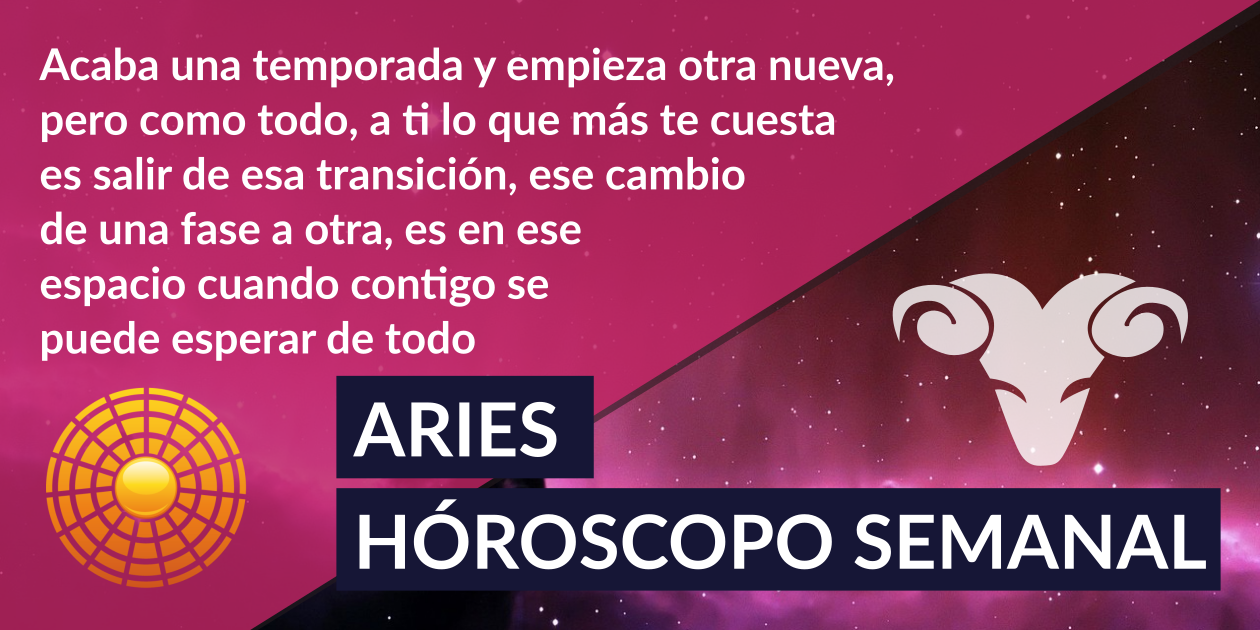
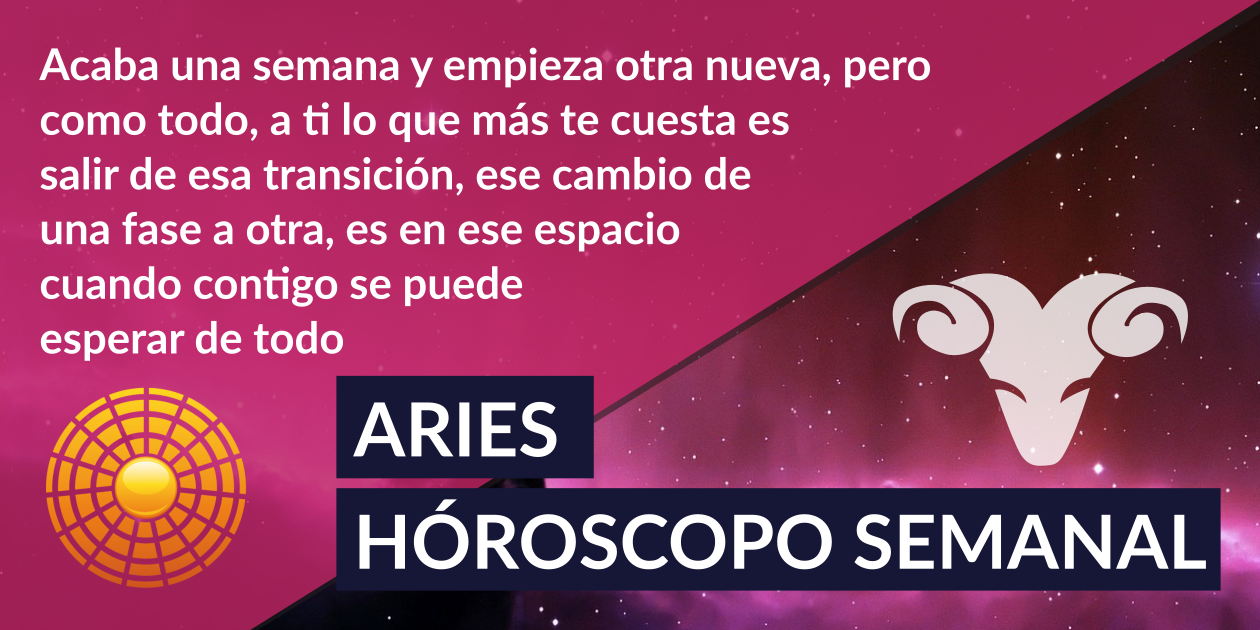
cfg

diff --git a/semanal/geminis.md b/semanal/geminis.md
@@ -1,26 +1,26 @@
 ---
 layout: horoscopos
-title: geminis 24 de noviembre 2025 al 30 de noviembre 2025 
-description: Horóscopo semanal geminis 24 de noviembre 2025 al 30 de noviembre 2025. Tienes que plantarte Géminis, plantarte en el lugar donde eres más feliz. A veces, por miedo siempre andas buscando otras cosas, siempre quieres probar y probar y no quedarte con nada pero ahora es el momento en el que debes tomar decisiones y al menos disfrutar de las sensaciones que la vida te da sin tener que salir corriendo. Se llama estabilidad.
+title: geminis 01 de diciembre 2025 al 07 de diciembre 2025 
+description: Horóscopo semanal geminis 01 de diciembre 2025 al 07 de diciembre 2025. Tienes que plantarte Géminis, plantarte en el lugar donde eres más feliz. A veces, por miedo siempre andas buscando otras cosas, siempre quieres probar y probar y no quedarte con nada pero ahora es el momento en el que debes tomar decisiones y al menos disfrutar de las sensaciones que la vida te da sin tener que salir corriendo. Se llama estabilidad.
 permalink: /horoscopo-semanal-gratis/geminis/
 home: FALSE
 keywords: horóscopo semanal, horóscopo de la semana, horóscopo, horóscopo gratis,horóscopos, horóscopo esperanza gracia, horoscopos geminis la semana, horóscopos gratis, Tarot, Astrologia, Zodíaco, geminis, horoscopo gratis, semanal
 horoscopo:
  signo: geminis
  video: -DQpmrrAIeU
-ogimg: /images/zodiac/semanal_geminis.png#2025-11-24
+ogimg: /images/zodiac/semanal_geminis.png#2025-12-01
 sitemap:
  priority: 1
  changefreq: 'weekly'
- lastmod: '2025-11-24'
+ lastmod: '2025-12-01'
 ---
 
 
 
 ## Tienes que plantarte Géminis, plantarte en el lugar donde eres más feliz. A veces, por miedo siempre andas buscando otras cosas, siempre quieres probar y probar y no quedarte con nada pero ahora es el momento en el que debes tomar decisiones y al menos disfrutar de las sensaciones que la vida te da sin tener que salir corriendo. Se llama estabilidad.
 
-Te revienta no poder ignorar, en serio te revienta porque sabes de sobra que es lo que ahora deberías hacer, pasar de todo de verdad, desaparecer por un tiempo. Quieres perder el interés de algunas cosas pero no puedes. Sabes de sobra lo que está bien y lo que está mal, lo que deberías dejar a un lado ya pero a la hora de la verdad, sientes como si algo te atrapara, como si no pudieras decir “hasta aquí” definitivamente, como si no puderas alejarte del todo de verdad. Pero en vez de marcharte, te quedas, y te quedas de mala hostia, y te enzarzas en pensamientos negros, en peleas tontas y en discusiones que no merecen la pena. Tu te quieres mucho, y sabes lo que vales, pero a la vez te dejas llevar, esa pasión incontrolada es la causante de tus alegrías más grandes y de tus dolores de cabeza más intensos. Y no puedes parar. Y te sientes encerrado en un círculo, un círculo del que cuando empiezas a salir te jala para adentro otra vez… Está bien echarle picante a la vida Géminis, en serio, está bien que haya un poquito de locura, pero no te pases porque al final vas a acabar por pagar un precio alto por esto. Ahora puedes con todo Géminis, recuperarte te lleva un par de días o tres pero, ¿es lo que quieres para tu futuro? No mantengas demasiado lo que debería estar muy lejos de ti.
-Con el Sol en Sagitario, tu signo opuesto, durante los siguientes días podrías ponerle tu sello personal a tus relaciones. Tu atención parece estar fuertemente invertida en un socio. La Luna Nueva de la semana pasada (del 20 de noviembre) te incitó a considerar un nuevo trabajo o rutina. Tu regente, Mercurio, se pone directo el martes 25, aclarando la comunicación. Por ahora, es mejor no apurar las cosas. Adopta un método práctico y sensato.
+Te revienta no poder ignorar, en serio te revienta porque sabes de sobra que es lo que ahora deberías hacer, pasar de todo de verdad, desaparecer por un tiempo. Quieres perder el interés de algunas cosas pero no puedes. Sabes de sobra lo que está bien y lo que está mal, lo que deberías dejar a un lado ya pero a la hora de la verdad, sientes como si algo te atrapara, como si no pudieras decir “hasta aquí” definitivamente, como si no pudieras alejarte del todo de verdad. Pero en vez de marcharte, te quedas, y te quedas de mala hostia, y te enzarzas en pensamientos negros, en peleas tontas y en discusiones que no merecen la pena. Tu te quieres mucho, y sabes lo que vales, pero a la vez te dejas llevar, esa pasión incontrolada es la causante de tus alegrías más grandes y de tus dolores de cabeza más intensos. Y no puedes parar. Y te sientes encerrado en un círculo, un círculo del que cuando empiezas a salir te jala para adentro otra vez… Está bien echarle picante a la vida Géminis, en serio, está bien que haya un poquito de locura, pero no te pases porque al final vas a acabar por pagar un precio alto por esto. Ahora puedes con todo Géminis, recuperarte te lleva un par de días o tres pero, ¿es lo que quieres para tu futuro? No mantengas demasiado lo que debería estar muy lejos de ti.
+Tu voluntad de aprender te coloca en una buena posición en este momento, no sólo porque te ofrece la oportunidad de actualizar tu conjunto de habilidades, sino también porque amplía tu comprensión de lo que es posible. La oportunidad de lanzarte a una aventura este fin de semana podría ser demasiado buena para dejarla pasar.
 
 ## Dinero
 

diff --git a/semanal/capricornio.md b/semanal/capricornio.md
@@ -1,18 +1,18 @@
 ---
 layout: horoscopos
-title: capricornio 24 de noviembre 2025 al 30 de noviembre 2025 
-description: Horóscopo semanal capricornio 24 de noviembre 2025 al 30 de noviembre 2025. Habrá momentos en los que el mundo parezca que se te cae a pedazos, pero todo eso que tienes ahora pendiente, todo ese dolor, todas esas cosas que te persiguen darán un giro de 180 grados.
+title: capricornio 01 de diciembre 2025 al 07 de diciembre 2025 
+description: Horóscopo semanal capricornio 01 de diciembre 2025 al 07 de diciembre 2025. Habrá momentos en los que el mundo parezca que se te cae a pedazos, pero todo eso que tienes ahora pendiente, todo ese dolor, todas esas cosas que te persiguen darán un giro de 180 grados.
 permalink: /horoscopo-semanal-gratis/capricornio/
 home: FALSE
 keywords: horóscopo semanal, horóscopo de la semana, horóscopo, horóscopo gratis,horóscopos, horóscopo esperanza gracia, horoscopos capricornio la semana, horóscopos gratis, Tarot, Astrologia, Zodíaco, capricornio, horoscopo gratis, semanal
 horoscopo:
  signo: capricornio
  video: -DQpmrrAIeU
-ogimg: /images/zodiac/semanal_capricornio.png#2025-11-24
+ogimg: /images/zodiac/semanal_capricornio.png#2025-12-01
 sitemap:
  priority: 1
  changefreq: 'weekly'
- lastmod: '2025-11-24'
+ lastmod: '2025-12-01'
 ---
 
 
@@ -20,7 +20,7 @@ sitemap:
 ## Habrá momentos en los que el mundo parezca que se te cae a pedazos, pero todo eso que tienes ahora pendiente, todo ese dolor, todas esas cosas que te persiguen darán un giro de 180 grados.
 
 El mundo no te entiende Capricornio, ya estás acostumbrado a eso, pero no te frustres, en serio no te frustres. Ha llegado un momento en el que ya no quieres las cosas a medias, o te lo dan todo o mejor que no te den nada. Estás harto de hacerte ilusiones que después no se cumplen, estás harto de depender siempre de la felicidad de los demás, de sus decisiones… Y te has dado cuenta de que vales mucho, de que si el resto no es capaz de valorar lo que podrías llegar a dar no es problema tuyo. Ahora sí sabes lo que vales Capricornio, ahora sí sabes lo que mereces. A pesar de que ahora sea todo o nada ni siquiera necesitas eso del resto, ¡qué va! Porque las cosas están cambiando, ahora eres tú quien necesita tiempo, quien necesita libertad para poder entender qué es lo que necesitas, qué es lo que quieres, qué es lo que de verdad te hará feliz. Quieres “sobrevivir” en el mundo sin necesidad de nadie, sin necesidad de nada que te ate y te corte las alas, sin broncas, sin malos rollos, sin dramas ni peleas. Cuando te metes en bucles así no avanzas y si no avanzas te estancas, y si te estancas dejas de ser feliz. Ya has estado en el fondo mucho tiempo Capricornio, ahora que has salido no vuelvas a caer. No eres de hierro no, pero procura serlo esta semana, aunque sea complicado. Descúbrete a ti mismo y descubre tu misión en la vida, y hazlo solo, y en vez de darle vueltas a lo malo, quédate con los buenos momentos, con lo que de verdad no falla.
-Es posible que motives a otras personas para que se unan a tu búsqueda de un nuevo sueño. La Luna Nueva de la semana pasada (del 20 de noviembre) activó tu sector social. De hecho, hacer estas actividades sin compañía no es tan divertido. El Sol y Venus en Sagitario esta semana te dan ganas de descansar y ponerte en espíritu introspectivo. Prepárate para recibir muchas invitaciones, pero también para necesitar tiempo a solas. También prepárate para recibir una oferta inesperada.
+Es posible que motives a otras personas para que se unan a tu búsqueda de paz interior o un retiro espiritual. De hecho, hacer estas actividades sin compañía no es tan divertido como hacerlas con amigos o tu pareja. El Sol en Sagitario activa tu sector de descanso y cierre, dándote ganas de ponerte en espíritu reflexivo.
 
 ## Dinero
 

diff --git a/semanal/cancer.md b/semanal/cancer.md
@@ -1,18 +1,18 @@
 ---
 layout: horoscopos
-title: cancer 24 de noviembre 2025 al 30 de noviembre 2025 
-description: Horóscopo semanal cancer 24 de noviembre 2025 al 30 de noviembre 2025. Tómate tu tiempo y cuando decidas dar un paso, hazlo con seguridad plena, como casi siempre lo has hecho. Y tranquilo, que todo llega a su tiempo…
+title: cancer 01 de diciembre 2025 al 07 de diciembre 2025 
+description: Horóscopo semanal cancer 01 de diciembre 2025 al 07 de diciembre 2025. Tómate tu tiempo y cuando decidas dar un paso, hazlo con seguridad plena, como casi siempre lo has hecho. Y tranquilo, que todo llega a su tiempo…
 permalink: /horoscopo-semanal-gratis/cancer/
 home: FALSE
 keywords: horóscopo semanal, horóscopo de la semana, horóscopo, horóscopo gratis,horóscopos, horóscopo esperanza gracia, horoscopos cancer la semana, horóscopos gratis, Tarot, Astrologia, Zodíaco, cancer, horoscopo gratis, semanal
 horoscopo:
  signo: cancer
  video: -DQpmrrAIeU
-ogimg: /images/zodiac/semanal_cancer.png#2025-11-24
+ogimg: /images/zodiac/semanal_cancer.png#2025-12-01
 sitemap:
  priority: 1
  changefreq: 'weekly'
- lastmod: '2025-11-24'
+ lastmod: '2025-12-01'
 ---
 
 
@@ -20,7 +20,7 @@ sitemap:
 ## Tómate tu tiempo y cuando decidas dar un paso, hazlo con seguridad plena, como casi siempre lo has hecho. Y tranquilo, que todo llega a su tiempo…
 
 La zona de confort es un sitio bonito Cáncer, un lugar cómodo en el que probablemente nada ni nadie pueda molestarte, pero recuerda que nada crece ahí, así que, si quieres conseguir algo que realmente merezca la pena empieza a moverte y a buscarlo. El primer paso para todo siempre es duro pero piensa que es sólo eso, un paso, que después todo fluye. Esta semana tienes que dar más de un paso para empezar a ver luz en la oscuridad, para darte cuenta de una vez que el lugar en el que estás clavado te atrapará mucho más. Llega una buena noticia, algo que te hará removerte del todo, algo que esperabas… Y llega porque en realidad tendrás una buena actitud para que las cosas que merecen la pena aparezcan. No desaproveches las oportunidades más Cáncer, ni tampoco tengas miedo de defender o de explicar tus decisiones a nadie, es tu vida Cáncer. No le debes ninguna explicación a nadie. Así que, cuando empieces a caminar hacia lo que de verdad te interesa y te gusta, no mires atrás porque recuerda que no debes nada a nadie, si no más bien al revés. Y ten claro que debes rodearte de personas que saquen la magia de ti, y no la locura. No te metas en juegos de niños pequeños, no te dejes llevar por las emociones ahora, que las sensaciones de otros no se cuelen en tu vida. Va a empezar a caminar hacia buen puerto Cáncer, y tú mismo te lo notas, no la cagues por nada ni por nadie.
-Tu enfoque hacia las actividades de ocio y hacia tu vida social podría atravesar un cambio esta semana. La Luna Nueva de la semana pasada (20 de noviembre) te dio un impulso creativo. Ahora, el Sol en Sagitario activa tu sector de trabajo y rutinas, por lo que puede que te convenga usar el conocimiento y las habilidades que adquiriste recientemente para poner tus planes en marcha. En las próximas semanas, podrías volverte una persona más competitiva y determinada de lo que has sido, y esto puede contribuir a un mayor éxito.
+Tu enfoque hacia las actividades de ocio y hacia tu vida social podría atravesar un cambio esta semana, y puede ser uno que se ha estado elaborando por un tiempo. Tal vez estás buscando moverte en nuevos círculos, hacer nuevas amistades o involucrarte en actividades que puedan aprovechar tu potencial creativo. Pero para hacer esto quizás necesitas liberarte de situaciones que ya no te sirven. No te sientas culpable, ya que el cosmos te alienta a decirle adiós a un capítulo de tu vida para darle la bienvenida a otro.
 
 ## Dinero
 

diff --git a/semanal/acuario.md b/semanal/acuario.md
@@ -1,18 +1,18 @@
 ---
 layout: horoscopos
-title: acuario 24 de noviembre 2025 al 30 de noviembre 2025 
-description: Horóscopo semanal acuario 24 de noviembre 2025 al 30 de noviembre 2025. Esta semana no te reniegues Acuario, no hables más de lo que debes, no te irrites ni pierdas los papeles por nada ni por nadie. Intenta no decir nada negativo (aunque cueste) durante 24 horas y observa cómo tu vida cambia. 
+title: acuario 01 de diciembre 2025 al 07 de diciembre 2025 
+description: Horóscopo semanal acuario 01 de diciembre 2025 al 07 de diciembre 2025. Esta semana no te reniegues Acuario, no hables más de lo que debes, no te irrites ni pierdas los papeles por nada ni por nadie. Intenta no decir nada negativo (aunque cueste) durante 24 horas y observa cómo tu vida cambia. 
 permalink: /horoscopo-semanal-gratis/acuario/
 home: FALSE
 keywords: horóscopo semanal, horóscopo de la semana, horóscopo, horóscopo gratis,horóscopos, horóscopo esperanza gracia, horoscopos acuario la semana, horóscopos gratis, Tarot, Astrologia, Zodíaco, acuario, horoscopo gratis, semanal
 horoscopo:
  signo: acuario
  video: -DQpmrrAIeU
-ogimg: /images/zodiac/semanal_acuario.png#2025-11-24
+ogimg: /images/zodiac/semanal_acuario.png#2025-12-01
 sitemap:
  priority: 1
  changefreq: 'weekly'
- lastmod: '2025-11-24'
+ lastmod: '2025-12-01'
 ---
 
 
@@ -20,7 +20,7 @@ sitemap:
 ## Esta semana no te reniegues Acuario, no hables más de lo que debes, no te irrites ni pierdas los papeles por nada ni por nadie. Intenta no decir nada negativo (aunque cueste) durante 24 horas y observa cómo tu vida cambia. 
 
 Despacito Acuario, ahora todo despacito. A veces, hacer las cosas de forma lenta es lo que tu corazón necesita, y tu cabeza. Necesitas un descanso, necesitas a personas cerca que no pongan tu mundo al revés otra vez. La suerte para tener éxito en la vida se llama “creer en ti”. Te has dado cuenta de que, por mucho que haya personas que han intentado joderte y hundir tu ego y tu forma de ser hasta lo más profundo, existen otras muchas que están ahí por y para ti, que se desviven, y que son las que realmente merecen la pena. Quizás no has pasado tu mejor etapa este tiempo atrás pero ahora lo tienes claro, vales lo que vales, incluso un poco más, y la fé que tendrás en ti mismo/a de ahora en adelante no va a arrebatártela nadie. Primero va tu felicidad. De hecho necesitas que ahora sea lo primordial. Quítate los pesos que cargas a tu espalda, y renace… No hay que tener miedo de empezar otra vez, de hecho, es una nueva oportunidad para reconstruir lo que siempre quisiste… Esta semana puede ser el momento para desprenderte de algo a lo que estabas muy apegado, quizás ahora tengas esa fuerza para hacerlo Acuario.
-Por mucho que deseas que todo sea perfecto, puede que tal no sea el caso en los próximos días. Sueña todo lo que quieras, pero es posible que tengas que hacerles frente a demandas que requieran de una respuesta. Es posible que te estés presionando demasiado cuando no es realmente necesario. En lugar de tratar de encargarte de todo, considera la posibilidad de delegar algunas tareas. La Luna Nueva de la semana pasada (del 20 de noviembre) te anima a ser audaz y a ampliar tus horizontes profesionales, y esta semana con el Sol en Sagitario, tu sector social se activa.
+Por mucho que deseas que todo sea perfecto, puede que tal no sea el caso en los próximos días. Sueña todo lo que quieras, pero es posible que tengas que hacerles frente a demandas sociales que requieran de una respuesta. Es posible que te estés presionando demasiado cuando no es realmente necesario. En lugar de tratar de encargarte de todo, considera la posibilidad de delegar algunas tareas para que tu semana sea más manejable. El Sol en Sagitario te anima a ser audaz y a ampliar tus horizontes sociales.
 
 ## Dinero
 

diff --git a/semanal/leo.md b/semanal/leo.md
@@ -1,18 +1,18 @@
 ---
 layout: horoscopos
-title: leo 24 de noviembre 2025 al 30 de noviembre 2025 
-description: Horóscopo semanal leo 24 de noviembre 2025 al 30 de noviembre 2025. No eres estúpido por ser humano, por tener sentimientos, por intentar arreglar las cosas, por querer empezar de cero y bien pero no puedes controlar tus emociones, lo que hay es lo que hay…
+title: leo 01 de diciembre 2025 al 07 de diciembre 2025 
+description: Horóscopo semanal leo 01 de diciembre 2025 al 07 de diciembre 2025. No eres estúpido por ser humano, por tener sentimientos, por intentar arreglar las cosas, por querer empezar de cero y bien pero no puedes controlar tus emociones, lo que hay es lo que hay…
 permalink: /horoscopo-semanal-gratis/leo/
 home: FALSE
 keywords: horóscopo semanal, horóscopo de la semana, horóscopo, horóscopo gratis,horóscopos, horóscopo esperanza gracia, horoscopos leo la semana, horóscopos gratis, Tarot, Astrologia, Zodíaco, leo, horoscopo gratis, semanal
 horoscopo:
  signo: leo
  video: -DQpmrrAIeU
-ogimg: /images/zodiac/semanal_leo.png#2025-11-24
+ogimg: /images/zodiac/semanal_leo.png#2025-12-01
 sitemap:
  priority: 1
  changefreq: 'weekly'
- lastmod: '2025-11-24'
+ lastmod: '2025-12-01'
 ---
 
 
@@ -20,7 +20,7 @@ sitemap:
 ## No eres estúpido por ser humano, por tener sentimientos, por intentar arreglar las cosas, por querer empezar de cero y bien pero no puedes controlar tus emociones, lo que hay es lo que hay…
 
 Quita importancia a las cosas Leo, como sea… De verdad, pensar demasiado es inútil y tu además puedes estresarte mucho más que otros signos por esto. Rizas el rizo, y así constantemente… Pon la mente en blanco como sea si no quieres empezar a dejar de dormir esta semana. Hay cosas que no están en tu mano, hay cosas que llegan y se van solas, sin que podamos hacer nada, pero sin embargo, la vida sigue y hay otras muchas en las que si puedes hacer mucho. Pues céntrate en esas Leo. En las que verdaderamente están ahí, en tu mano. Tienes que tener un plan B para engañar a tu mente, sal un poco más y cuando no te apetezca mucho, oblígate, hazte el favor de relacionarte con tus amigos, de sacar tus sentimientos, lo que pasa por tu cabeza. Los nervios sólo te acabarán consumiendo por dentro. Deja fluir, deja correr, deja pasar las cosas y no vuelvas a abrir las puertas de tu vida a la gente que te hace daño. Si te rodeas de buenas personas, lo positivo empezará a aparecer en tu vida, pero si por tu alrededor la energía mala se palpa, no esperes nada bueno. Deja que las cosas se marchen de tu vida si así tiene que ser, y márchate tú si eso es lo que sabes que debes hacer… Aférrate a ti mismo, sólo a ti… Por una vez manda a la mierda y céntrate en lo que de verdad te hará feliz.
-Puede que las emociones sean bastante intensas durante la semana, al punto de que podrían estallar. Con el Sol (tu regente) en Sagitario, tu sector de romance y diversión, si no le has dicho a nadie cómo te sientes y mueres por hacerlo, trata de controlar tus ansias. La persona en cuestión podría sentirse abrumada. ¿Ya tienes compromiso con alguien? A tu amor le encantaría un regalo especial que podría ser más que suficiente para mostrar cuánto te importa ahora, y siempre.
+Puede que las emociones sean bastante intensas durante la semana, al punto de que podrían estallar. Si no le has dicho a nadie cómo te sientes y mueres por hacerlo, trata de controlar tus ansias. La persona en cuestión podría sentirse abrumada si le cuentas todo de golpe. ¿Ya tienes compromiso con alguien? A tu amor le encantaría un regalo especial que podría ser más que suficiente para mostrar cuánto te importa ahora, y siempre.
 
 ## Dinero
 

diff --git a/semanal/sagitario.md b/semanal/sagitario.md
@@ -1,26 +1,26 @@
 ---
 layout: horoscopos
-title: sagitario 24 de noviembre 2025 al 30 de noviembre 2025 
-description: Horóscopo semanal sagitario 24 de noviembre 2025 al 30 de noviembre 2025. Mantén una actitud positiva, tienes que dejar de concentrarte en lo que podría salir mal y empezar a centrarte en lo que puede salir bien. Dentro de poco no te parará ni un tren pero cuídate a ti mismo un poco más…
+title: sagitario 01 de diciembre 2025 al 07 de diciembre 2025 
+description: Horóscopo semanal sagitario 01 de diciembre 2025 al 07 de diciembre 2025. Mantén una actitud positiva, tienes que dejar de concentrarte en lo que podría salir mal y empezar a centrarte en lo que puede salir bien. Dentro de poco no te parará ni un tren pero cuídate a ti mismo un poco más…
 permalink: /horoscopo-semanal-gratis/sagitario/
 home: FALSE
 keywords: horóscopo semanal, horóscopo de la semana, horóscopo, horóscopo gratis,horóscopos, horóscopo esperanza gracia, horoscopos sagitario la semana, horóscopos gratis, Tarot, Astrologia, Zodíaco, sagitario, horoscopo gratis, semanal
 horoscopo:
  signo: sagitario
  video: -DQpmrrAIeU
-ogimg: /images/zodiac/semanal_sagitario.png#2025-11-24
+ogimg: /images/zodiac/semanal_sagitario.png#2025-12-01
 sitemap:
  priority: 1
  changefreq: 'weekly'
- lastmod: '2025-11-24'
+ lastmod: '2025-12-01'
 ---
 
 
 
-## Mantén una actitud positiva, tienes que dejar de concentrarte en lo que podría salir mal y empezar a centrarte en lo que puede salir bien. Dentro de poco no te parará ni un tren pero cuídate a ti mismo un poco más…
+## Mantén una actitud positiva, tienes que dejar de concentrarte en lo que podría salir mal y empezar a centrarte en lo que puede salir bien. Dentro de poco no te parará ni un tren pero cuídate a ti mismo un poco más…
 
 A veces parece que no progresas, y te estancas, y te lamentas, y te das por vencido/a… Pero no, lo que pasa es que las cosas van más lentas de lo que queremos. Y todo lo que des hoy te va a repercutir en el futuro, aunque ahora parezca que no funciona del todo. ¿Estás en el lugar correcto Sagitario? Seguro que sí, siempre has sido listo/a como para saber lo que haces… No hace falta que ahora pruebes otras cosas, lo que tienes que hacer es enfocarte en las que tienes, y tratar de hacer todo bien. La constancia es la clave del éxito Sagitario. No te pierdas ahora por otras sendas, de verdad, vas bien encaminado ahora pero échale ganas y sobretodo no te rindas. Y tampoco dejes que la influencia del resto tenga poder sobre ti, ni mucho ni poco, NADA.
-¡Feliz temporada de cumpleaños, Sagitario! Con el Sol en tu signo, un choque de creencias podría dejarte con una incierta sensación. Teniendo en cuenta la alineación de esta semana, puede que lo mejor sea investigar tus opciones. Mercurio se pone directo en tu signo el martes 25, ayudando a allanar el camino para futuros planes; sobre todo si tienes ganas de conocer a más gente en tu ámbito profesional. Finalmente, inscribirte a una clase podría beneficiarte en el futuro.
+Un choque de creencias podría dejarte con una incierta sensación en relación a cómo proceder hacia una meta. Teniendo en cuenta la alineación de esta semana, puede que lo mejor sea investigar tus opciones en lugar de seguir avanzando. El Sol en tu signo te da la energía para iluminar el camino. Finalmente, inscribirte a una clase podría beneficiarte en el futuro.
 
 ## Dinero
 

diff --git a/semanal/aries.md b/semanal/aries.md
@@ -1,27 +1,27 @@
 ---
 layout: horoscopos
-title: aries 24 de noviembre 2025 al 30 de noviembre 2025 
-description: Horóscopo semanal aries 24 de noviembre 2025 al 30 de noviembre 2025. Acaba una temporada y empieza otra nueva, pero como todo, a ti lo que más te cuesta es salir de esa transición, ese cambio de una fase a otra, es en ese espacio cuando contigo se puede esperar de todo
+title: aries 01 de diciembre 2025 al 07 de diciembre 2025 
+description: Horóscopo semanal aries 01 de diciembre 2025 al 07 de diciembre 2025. Acaba una semana y empieza otra nueva, pero como todo, a ti lo que más te cuesta es salir de esa transición, ese cambio de una fase a otra, es en ese espacio cuando contigo se puede esperar de todo
 permalink: /horoscopo-semanal-gratis/aries/
 home: FALSE
 keywords: horóscopo semanal, horóscopo de la semana, horóscopo, horóscopo gratis,horóscopos, horóscopo esperanza gracia, horoscopos aries la semana, horóscopos gratis, Tarot, Astrologia, Zodíaco, aries, horoscopo gratis, semanal
 horoscopo:
  signo: aries
  video: -DQpmrrAIeU
-ogimg: /images/zodiac/semanal_aries.png#2025-11-24
+ogimg: /images/zodiac/semanal_aries.png#2025-12-01
 sitemap:
  priority: 1
  changefreq: 'weekly'
- lastmod: '2025-11-24'
+ lastmod: '2025-12-01'
 ---
 
 
 
-## Acaba una temporada y empieza otra nueva, pero como todo, a ti lo que más te cuesta es salir de esa transición, ese cambio de una fase a otra, es en ese espacio cuando contigo se puede esperar de todo
+## Acaba una semana y empieza otra nueva, pero como todo, a ti lo que más te cuesta es salir de esa transición, ese cambio de una fase a otra, es en ese espacio cuando contigo se puede esperar de todo
 
 No dejes que nadie defina quien eres, no dejes que nadie te de un empujón ahora porque en realidad, no lo necesitas, simplemente tienes que mentalizarte de lo que puedes llegar a conseguir tú, por ti mismo, independientemente de si te quieren ayudar o no. 
  sino que aprovechan tus estados bajos de ánimo para que te vuelvas aún más loco, para que te desequilibres mucho más.
-Hay mucha actividad en tu sector de viajes y expansión, lo que puede indicar que es momento de establecer objetivos. Debido a que Mercurio se pone directo el martes 25, trata de aplazar la firma de contratos o comprometerte con importantes transacciones hasta entonces. Si es inevitable, podrías descubrir que ocurren cambios. Sin embargo, en algunos casos, esto puede beneficiarte. La Luna Nueva de la semana pasada (del 20 de noviembre) podría inspirarte a dar el primer paso hacia una ambición personal profunda.
+Hay mucha actividad en tu sector de viajes y expansión con el Sol en Sagitario, lo que puede indicar que es momento de establecer objetivos, ya sean profesionales o personales. Si es inevitable firmar contratos, podrías descubrir que ocurren cambios que alteran considerablemente los términos y las condiciones originales. Sin embargo, en algunos casos, esto puede beneficiarte.
 
 ## Dinero
 

diff --git a/semanal/virgo.md b/semanal/virgo.md
@@ -1,18 +1,18 @@
 ---
 layout: horoscopos
-title: virgo 24 de noviembre 2025 al 30 de noviembre 2025 
-description: Horóscopo semanal virgo 24 de noviembre 2025 al 30 de noviembre 2025. Esta semana tienes que ser bastante firme con las decisiones que tomes, y no plantearte dar segundas o terceras oportunidades. Y sí, ser egoísta, mirar por ti y por los tuyos y dejar de hacer caso al corazón.
+title: virgo 01 de diciembre 2025 al 07 de diciembre 2025 
+description: Horóscopo semanal virgo 01 de diciembre 2025 al 07 de diciembre 2025. Esta semana tienes que ser bastante firme con las decisiones que tomes, y no plantearte dar segundas o terceras oportunidades. Y sí, ser egoísta, mirar por ti y por los tuyos y dejar de hacer caso al corazón.
 permalink: /horoscopo-semanal-gratis/virgo/
 home: FALSE
 keywords: horóscopo semanal, horóscopo de la semana, horóscopo, horóscopo gratis,horóscopos, horóscopo esperanza gracia, horoscopos virgo la semana, horóscopos gratis, Tarot, Astrologia, Zodíaco, virgo, horoscopo gratis, semanal
 horoscopo:
  signo: virgo
  video: -DQpmrrAIeU
-ogimg: /images/zodiac/semanal_virgo.png#2025-11-24
+ogimg: /images/zodiac/semanal_virgo.png#2025-12-01
 sitemap:
  priority: 1
  changefreq: 'weekly'
- lastmod: '2025-11-24'
+ lastmod: '2025-12-01'
 ---
 
 
@@ -20,7 +20,7 @@ sitemap:
 ## Esta semana tienes que ser bastante firme con las decisiones que tomes, y no plantearte dar segundas o terceras oportunidades. Y sí, ser egoísta, mirar por ti y por los tuyos y dejar de hacer caso al corazón.
 
 Aunque nadie lo quiera para sí mismo hay que dejar algo claro: el sufrimiento a veces es nuestro mejor maestro. Sí Virgo, si aún sufres es porque no has aprendido esa lección en particular, es porque aún no te has armado de valor para dejar de lado lo que no te hace ningún bien, lo que no te aporta. Cuando por fin lo hagas y te decidas de verdad, el sufrimiento se acabará yendo… Pero si sólo tratas de engañarte la misma lección acabará por venir una y otra vez a tu vida. Acompañada de dolor.
-Tu imaginación podría volar en los próximos días. Con el Sol en Sagitario, tu sector del hogar y la familia, puede que también quieras asistir a actividades en casa. Pero cuida tus finanzas, ya que podrías darte cuenta de que una compra impulsiva te cuesta mucho dinero. En los siguientes días, tu regente, Mercurio, se pone directo (el 25 de noviembre), razón por la cual es todavía más importante que cuides tu dinero y tu comunicación.
+Cuando el Sol en Sagitario ilumina tu sector doméstico, tu imaginación podría volar en los próximos días y ser fuente de inspiración para tus proyectos en casa. Puede que también quieras asistir a actividades familiares. Pero cuida tus finanzas, ya que podrías darte cuenta de una compra impulsiva te cuesta mucho dinero.
 
 ## Dinero
 

diff --git a/semanal/piscis.md b/semanal/piscis.md
@@ -1,18 +1,18 @@
 ---
 layout: horoscopos
-title: piscis 24 de noviembre 2025 al 30 de noviembre 2025 
-description: Horóscopo semanal piscis 24 de noviembre 2025 al 30 de noviembre 2025. Los cambios no son malos y aunque haya cicatrices que aún no están cerradas hay que seguir mirando al frente, hay que seguir caminando y hay que abrir sendas nuevas. No te estanques con nada ahora. Si no va, no va.
+title: piscis 01 de diciembre 2025 al 07 de diciembre 2025 
+description: Horóscopo semanal piscis 01 de diciembre 2025 al 07 de diciembre 2025. Los cambios no son malos y aunque haya cicatrices que aún no están cerradas hay que seguir mirando al frente, hay que seguir caminando y hay que abrir sendas nuevas. No te estanques con nada ahora. Si no va, no va.
 permalink: /horoscopo-semanal-gratis/piscis/
 home: FALSE
 keywords: horóscopo semanal, horóscopo de la semana, horóscopo, horóscopo gratis,horóscopos, horóscopo esperanza gracia, horoscopos piscis la semana, horóscopos gratis, Tarot, Astrologia, Zodíaco, piscis, horoscopo gratis, semanal
 horoscopo:
  signo: piscis
  video: -DQpmrrAIeU
-ogimg: /images/zodiac/semanal_piscis.png#2025-11-24
+ogimg: /images/zodiac/semanal_piscis.png#2025-12-01
 sitemap:
  priority: 1
  changefreq: 'weekly'
- lastmod: '2025-11-24'
+ lastmod: '2025-12-01'
 ---
 
 
@@ -20,7 +20,7 @@ sitemap:
 ## Los cambios no son malos y aunque haya cicatrices que aún no están cerradas hay que seguir mirando al frente, hay que seguir caminando y hay que abrir sendas nuevas. No te estanques con nada ahora. Si no va, no va.
 
 Tienes una sensación algo extraña, como si entendieras, por fin, que estás fuera de onda, que no te encuentras en el lugar donde de verdad quieres o mereces estar. Pero esto es solamente una elección Piscis, y ahora puedes elegir lo que quieras.
-Un problema que había quedado en el olvido podría salir a la luz. Con el Sol en Sagitario iluminando tu sector profesional, cualquier problema puede resurgir, o quizás una angustia generalizada que quieres tratar de entender. Puede que te ayude tomarte tiempo y liberar un poco de tiempo en tu agenda. Si lo haces, podrás conectar mejor con este asunto, entender de dónde viene y tratar de buscar una solución. Puede que te sientas mucho mejor al fin de cuentas.
+Un problema que había quedado en el olvido podría salir a la luz a la mitad de semana. Puede que este problema resurja en un sueño o quizá en una angustia generalizada que quieres tratar de entender. Puede que te ayude tomarte tiempo y liberar un poco de tiempo en tu agenda. Si lo haces, podrás conectar mejor con este asunto, entender de dónde viene y tratar de buscar una solución. Puede que te sientas mucho mejor al fin de cuentas.
 
 ## Dinero
 

diff --git a/semanal/libra.md b/semanal/libra.md
@@ -1,18 +1,18 @@
 ---
 layout: horoscopos
-title: libra 24 de noviembre 2025 al 30 de noviembre 2025 
-description: Horóscopo semanal libra 24 de noviembre 2025 al 30 de noviembre 2025. Cada día que pasa te das más cuenta de que mereces cosas buenas Libra, de que puedes conseguirlas, de que debes conseguirlas. Repítetelo cada día, cada momento.
+title: libra 01 de diciembre 2025 al 07 de diciembre 2025 
+description: Horóscopo semanal libra 01 de diciembre 2025 al 07 de diciembre 2025. Cada día que pasa te das más cuenta de que mereces cosas buenas Libra, de que puedes conseguirlas, de que debes conseguirlas. Repítetelo cada día, cada momento.
 permalink: /horoscopo-semanal-gratis/libra/
 home: FALSE
 keywords: horóscopo semanal, horóscopo de la semana, horóscopo, horóscopo gratis,horóscopos, horóscopo esperanza gracia, horoscopos libra la semana, horóscopos gratis, Tarot, Astrologia, Zodíaco, libra, horoscopo gratis, semanal
 horoscopo:
  signo: libra
  video: -DQpmrrAIeU
-ogimg: /images/zodiac/semanal_libra.png#2025-11-24
+ogimg: /images/zodiac/semanal_libra.png#2025-12-01
 sitemap:
  priority: 1
  changefreq: 'weekly'
- lastmod: '2025-11-24'
+ lastmod: '2025-12-01'
 ---
 
 
@@ -20,7 +20,7 @@ sitemap:
 ## Cada día que pasa te das más cuenta de que mereces cosas buenas Libra, de que puedes conseguirlas, de que debes conseguirlas. Repítetelo cada día, cada momento.
 
 Algo que te haga sentir vivo/a ya. Te has metido en una espiral de rutina un poco complicada y poco a poco esa energía que tenías va siendo consumida. Con lo que tú has sido… Con lo que tú eres…
-Los sentimientos podían intensificarse esta semana, por lo que puede que tengas que tener más cuidado durante ciertas charlas. Con el Sol en Sagitario, tu sector de la comunicación, podría ser fácil decir algo erróneo. Trata de pensar antes de hablar, especialmente hasta que Mercurio se ponga directo el martes 25. Sin embargo, una buena alineación puede tener el efecto opuesto, animándote a poner a otros antes que a ti, sobre todo si necesitan ayuda. Por último, la energía de la semana puede ser útil para aprender una nueva habilidad.
+Los sentimientos podían intensificarse, por lo que puede que tengas que tener más cuidado durante ciertas charlas. Podría ser fácil decir algo erróneo a causa de que sientas estrés. Trata de pensar antes de hablar. Sin embargo, el Sol en Sagitario puede tener el efecto opuesto, animándote a conectar con otros, sobre todo si necesitan ayuda.
 
 ## Dinero
 

diff --git a/semanal/escorpio.md b/semanal/escorpio.md
@@ -1,18 +1,18 @@
 ---
 layout: horoscopos
-title: escorpio 24 de noviembre 2025 al 30 de noviembre 2025 
-description: Horóscopo semanal escorpio 24 de noviembre 2025 al 30 de noviembre 2025. Cuando te busquen, huye, en serio huye, no entres en el trapo, no dejes que te atrapen para tener más de lo mismo.
+title: escorpio 01 de diciembre 2025 al 07 de diciembre 2025 
+description: Horóscopo semanal escorpio 01 de diciembre 2025 al 07 de diciembre 2025. Cuando te busquen, huye, en serio huye, no entres en el trapo, no dejes que te atrapen para tener más de lo mismo.
 permalink: /horoscopo-semanal-gratis/escorpio/
 home: FALSE
 keywords: horóscopo semanal, horóscopo de la semana, horóscopo, horóscopo gratis,horóscopos, horóscopo esperanza gracia, horoscopos escorpio la semana, horóscopos gratis, Tarot, Astrologia, Zodíaco, escorpio, horoscopo gratis, semanal
 horoscopo:
  signo: escorpio
  video: -DQpmrrAIeU
-ogimg: /images/zodiac/semanal_escorpio.png#2025-11-24
+ogimg: /images/zodiac/semanal_escorpio.png#2025-12-01
 sitemap:
  priority: 1
  changefreq: 'weekly'
- lastmod: '2025-11-24'
+ lastmod: '2025-12-01'
 ---
 
 
@@ -21,7 +21,7 @@ sitemap:
 
 Después de todo lo que has pasado, pocas cosas son las que te asustan ahora. A ver Escorpio, no es que hayas tenido una época fácil últimamente, eso está más que claro, y tienen que entender que cuando psicológicamente has sido decepcionado muchas veces, incluso destrozado, se comienzan a perder las ganas de todo. No es que te hayas cerrado en banda y no vayas a dar nada de ti, no es eso, es sólo que 
  hasta que empieces a sentir que realmente merece la pena.
-Aunque pareces estar progresando, puede que te rodeen más retrasos de lo habitual. Con la energía de la Luna Nueva de la semana pasada en tu signo, podrías encontrarte probando distintas ideas. El Sol ahora ilumina tu sector de finanzas (Sagitario), por lo que es hora de relajarte y disfrutar del dinero. Posiblemente sientas dudas acerca de explorar una relación, pero puede que el tiempo cuente otra historia.
+El Sol en Sagitario ilumina tu sector financiero, por lo que podrías recibir gran impulso al conectar con recursos que compartan tus intereses. Si tienes la oportunidad de colaborar en un proyecto que te apasiona, este es el momento perfecto para hacerlo. Alternativamente, unirte a un grupo de inversión también podría resultar fascinante.
 
 ## Dinero
 

diff --git a/semanal/tauro.md b/semanal/tauro.md
@@ -1,18 +1,18 @@
 ---
 layout: horoscopos
-title: tauro 24 de noviembre 2025 al 30 de noviembre 2025 
-description: Horóscopo semanal tauro 24 de noviembre 2025 al 30 de noviembre 2025. Quien no esté contigo en las malas no estará contigo en las buenas, lo tienes más que claro, pero deja que pase el tiempo, deja que cada cosa se coloque en el lugar que le pertenece.
+title: tauro 01 de diciembre 2025 al 07 de diciembre 2025 
+description: Horóscopo semanal tauro 01 de diciembre 2025 al 07 de diciembre 2025. Quien no esté contigo en las malas no estará contigo en las buenas, lo tienes más que claro, pero deja que pase el tiempo, deja que cada cosa se coloque en el lugar que le pertenece.
 permalink: /horoscopo-semanal-gratis/tauro/
 home: FALSE
 keywords: horóscopo semanal, horóscopo de la semana, horóscopo, horóscopo gratis,horóscopos, horóscopo esperanza gracia, horoscopos tauro la semana, horóscopos gratis, Tarot, Astrologia, Zodíaco, tauro, horoscopo gratis, semanal
 horoscopo:
  signo: tauro
  video: -DQpmrrAIeU
-ogimg: /images/zodiac/semanal_tauro.png#2025-11-24
+ogimg: /images/zodiac/semanal_tauro.png#2025-12-01
 sitemap:
  priority: 1
  changefreq: 'weekly'
- lastmod: '2025-11-24'
+ lastmod: '2025-12-01'
 ---
 
 
@@ -21,7 +21,7 @@ sitemap:
 
 Lo más complicado es siempre el principio, de todo, una vez que te has subido al “barco” no vuelvas a tirarte al agua, ¿me explico? 
 Y si aún tienes dudas sobre algo, tómate tu tiempo para decidir, a solas, sin que nadie pueda darle más vueltas a tu cabeza…
-Los asuntos de finanzas compartidas e intimidad siguen siendo importantes. Con el Sol en Sagitario ocupando este sector en tu carta, es el momento perfecto para eliminar el desorden de tus deudas y avanzar con proyectos profundos. Puede que quieras agrandar tu hogar o mudarte a una propiedad más amplia. Si has estado considerando esto, es momento de actuar y hacer algo al respecto, especialmente ahora que Mercurio se pone directo el martes. Te beneficiará enormemente hacerlo.
+Los asuntos de transformación y recursos compartidos siguen siendo importantes. Con el Sol en Sagitario ocupando este sector en tu carta, es el momento perfecto para eliminar deudas o profundizar en la intimidad. Puede que quieras avanzar con proyectos creativos conjuntos. Si has estado considerando esto, es momento de actuar y hacer algo al respecto.
 
 ## Dinero
 
